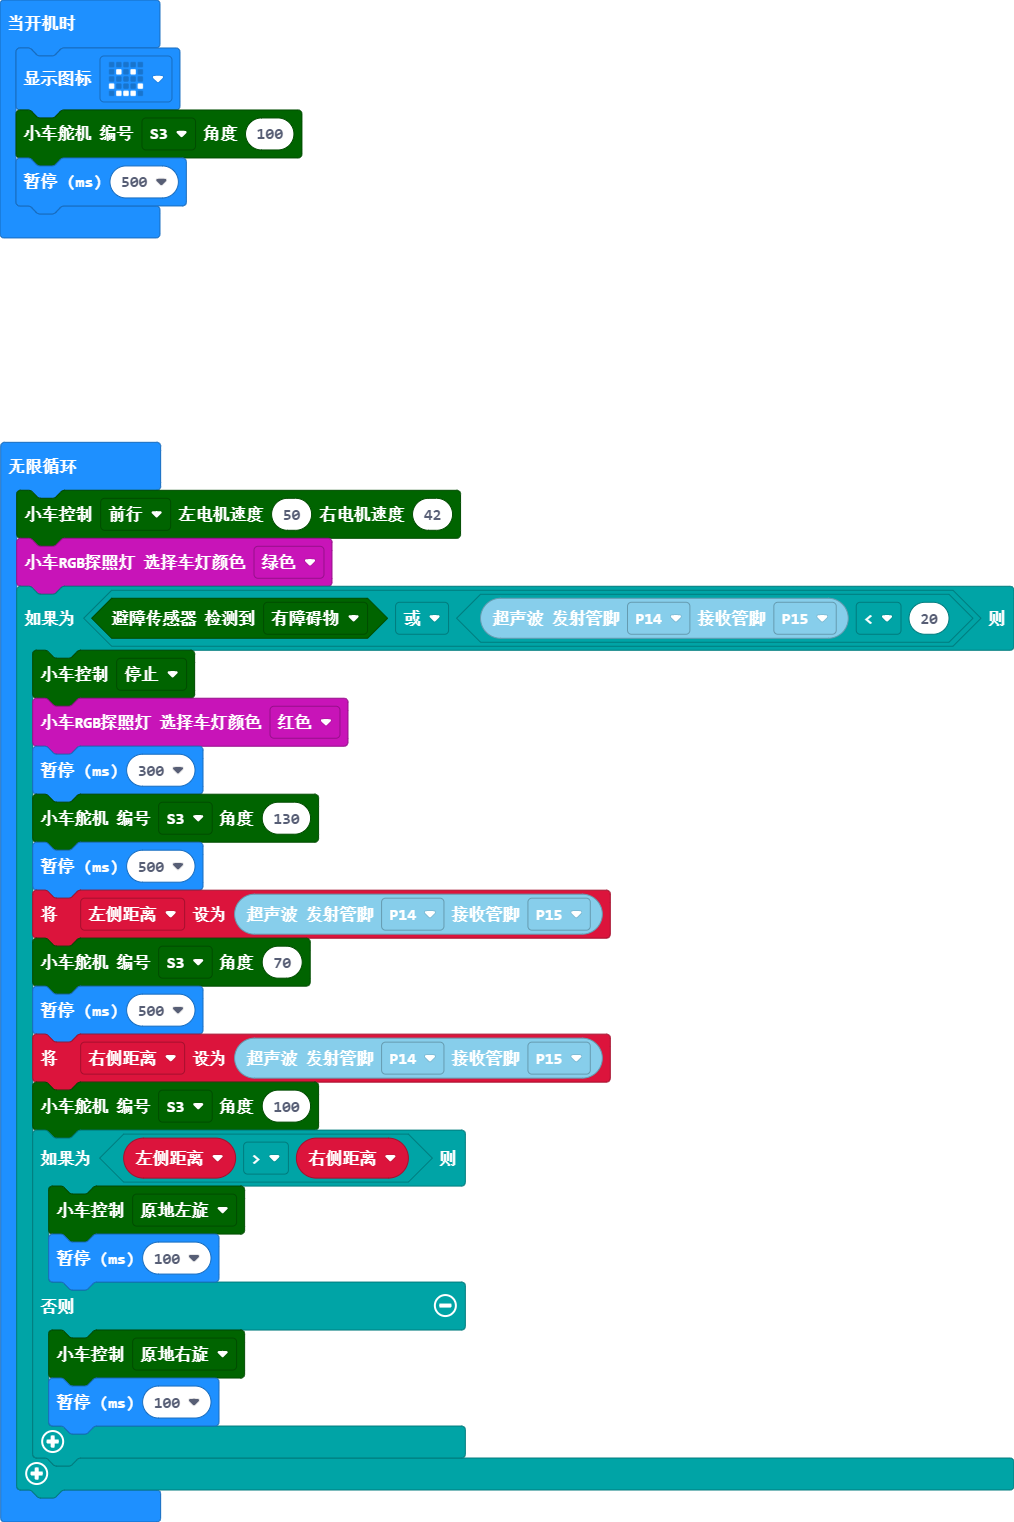
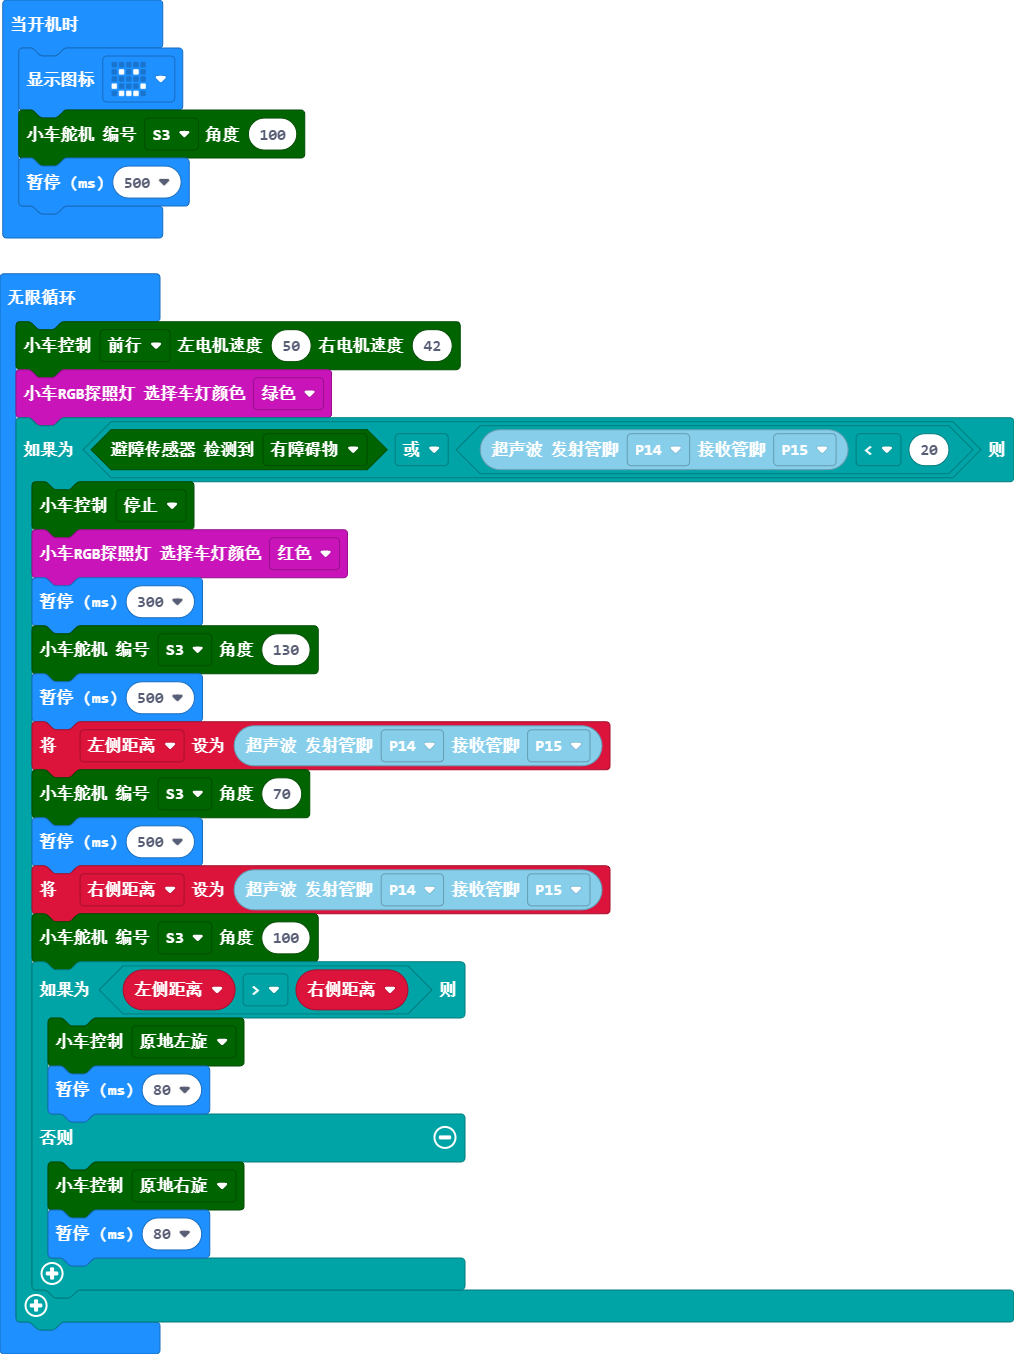
增加了摆头判断障碍物功能

diff --git a/main.ts b/main.ts
@@ -19,10 +19,10 @@ basic.forever(function () {
         mbit_小车类.Servo_Car(mbit_小车类.enServo.S3, 100)
         if (左侧距离 > 右侧距离) {
             mbit_小车类.CarCtrl(mbit_小车类.CarState.Car_SpinLeft)
-            basic.pause(100)
+            basic.pause(80)
         } else {
             mbit_小车类.CarCtrl(mbit_小车类.CarState.Car_SpinRight)
-            basic.pause(100)
+            basic.pause(80)
         }
     }
 })
